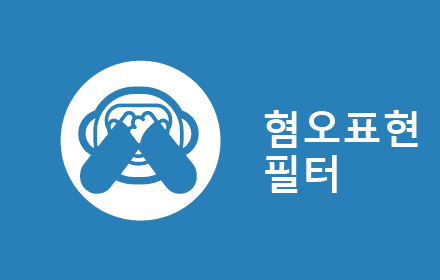
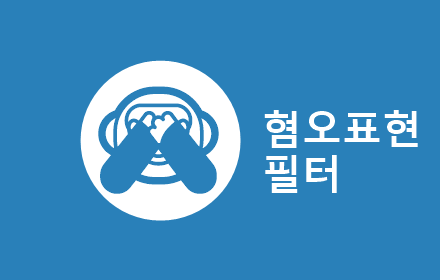
Add store screenshot and marquee tile assets
Screenshot mockup (1280x800) and marquee tile (1400x560) added under
store-assets/, alongside the promo tile (regenerated as 24-bit RGB
with no alpha channel to match the store's upload requirements).
STORE_LISTING.md checklist updated to reflect what's ready.

Changed region(s): [[0.1182, 0.2, 0.5614, 0.8]]

diff --git a/STORE_LISTING.md b/STORE_LISTING.md
@@ -46,22 +46,18 @@ https://github.com/iamtalker/hate-speech-filter-extension/blob/main/PRIVACY.md
 | 용도 | 규격 | 상태 |
 |---|---|---|
 | 확장프로그램 아이콘 (매니페스트/스토어 아이콘 겸용) | 128×128 PNG, 실제 그림은 96×96 + 여백 16px | `icons/icon128.png` 완료 |
-| 스크린샷 (필수, 최소 1장, 최대 5장) | 1280×800 또는 640×400 | 직접 촬영 필요 |
-| 작은 프로모션 타일 | 440×280 PNG | `store-assets/promo-tile-440x280.png` 완료 |
-| 마퀴 타일 (선택) | 1400×560 PNG | 생략 가능 |
-
-### 스크린샷 촬영 방법 (직접 촬영 필요)
-
-1. `chrome://extensions`에서 확장프로그램 로드 후 아무 사이트에서 테스트 문구가 블러 처리된 화면 캡처
-2. 팝업 열어서 카테고리 관리 화면 캡처
+| 스크린샷 (필수, 최소 1장, 최대 5장) | 1280×800 또는 640×400, 24비트 PNG/JPEG(알파 없음) | `store-assets/screenshot-1-feed.png` 완료 (목업, 원하면 실제 설치 화면으로 교체 가능) |
+| 작은 프로모션 타일 | 440×280 PNG(알파 없음) | `store-assets/promo-tile-440x280.png` 완료 |
+| 마퀴 타일 (선택) | 1400×560 PNG(알파 없음) | `store-assets/marquee-tile-1400x560.png` 완료 (없어도 등록 가능, Featured 노출 시에만 사용) |
 
 ## 제출 전 체크리스트
 
 - [ ] `chrome.google.com/webstore/devconsole`에서 개발자 계정 등록 (5달러 일회성 결제)
 - [ ] `package.ps1` 실행해서 zip 생성
 - [x] 아이콘 (128×128)
+- [x] 스크린샷 1장 이상
 - [x] 프로모션 타일 (440×280)
-- [ ] 스크린샷 1장 이상 촬영
+- [x] 마퀴 타일 (1400×560, 선택)
 - [ ] 짧은 설명 / 상세 설명 입력
 - [ ] 개인정보처리방침 URL 입력
 - [ ] 카테고리: Communication
